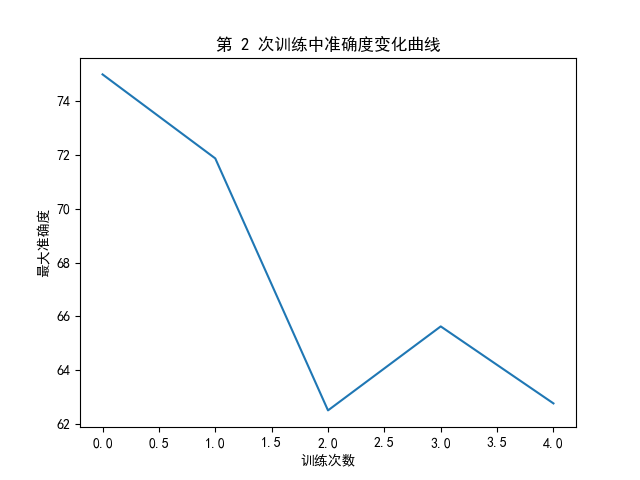
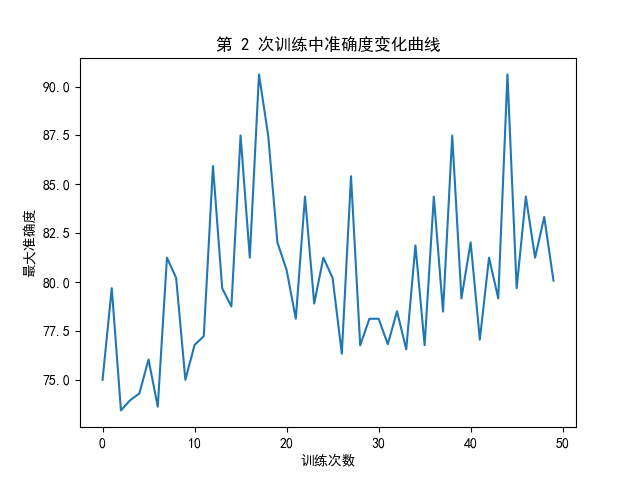
提优后上传最后结果

diff --git a/soluation.py b/soluation.py
@@ -37,7 +37,7 @@ def solve_ncf(
         embedding_size,
         learn_rate,
     )
-    epochs = 5
+    epochs = 50
     train(df, test_size, 108, batch_size, ncf, epochs, 1)
     train(df, test_size, 568, batch_size, ncf, epochs, 2)
     train(df, test_size, 782, batch_size, ncf, epochs, 3)

diff --git a/main.py b/main.py
@@ -25,7 +25,7 @@ def main():
 
     # 处理数据
     df = dp.solve_data(movie_df, ratings_df, tags_df)
-    s.solve_ncf(df, 32, 50, 0.1, 0.001)
+    s.solve_ncf(df, 32, 50, 0.1, 0.00095)
 
 
 if __name__ == "__main__":
